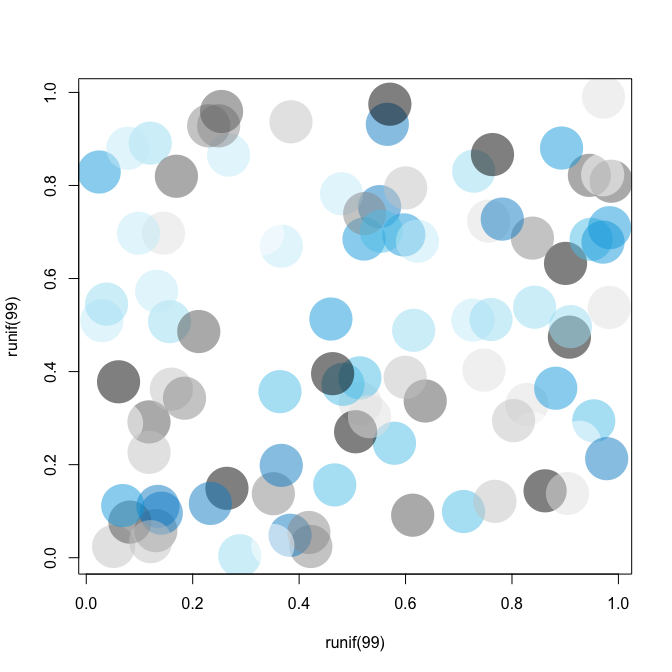
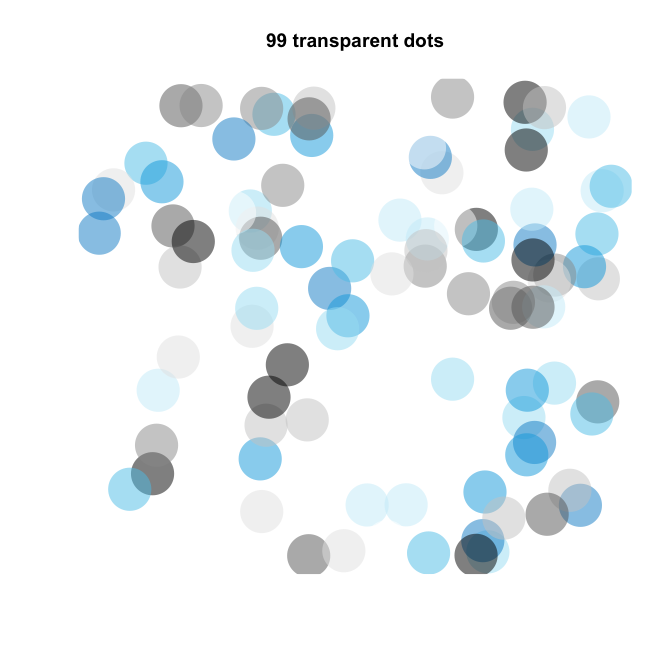
minor updates (consistent spelling and image sizes)

diff --git a/README.md b/README.md
@@ -252,7 +252,9 @@ Providing an opacity value for `alpha` (in the range `[0, 1]`) allows adding tra
 
 ``` r
 # (c) Scatterplots:
-plot(x = runif(99), y = runif(99), "p", pch = 16, cex = 6, col = usecol(pal_unikn, alpha = .5)) # transparency
+plot(x = runif(99), y = runif(99), "p", pch = 16, cex = 6, 
+     col = usecol(pal_unikn, alpha = .5),  # transparency
+     main = "99 transparent dots", axes = FALSE, xlab = NA, ylab = NA)
 ```
 
 <img src="inst/pix/README-usepal_demo_scatter-1.png" width="40%" style="display: block; margin: auto;" />
@@ -456,7 +458,7 @@ Color definitions are based on the following sources:
 -   [Colours for complex graphics (xls)](https://www.uni-konstanz.de/en/university/news-and-media/create-online-and-print-media/corporate-design/colours-for-complex-graphics/)
 
 <!-- Update: -->
-\[Updated on 2019-05-23.\]
+\[Updated on 2019-05-24.\]
 
 <!-- eof. -->
 
